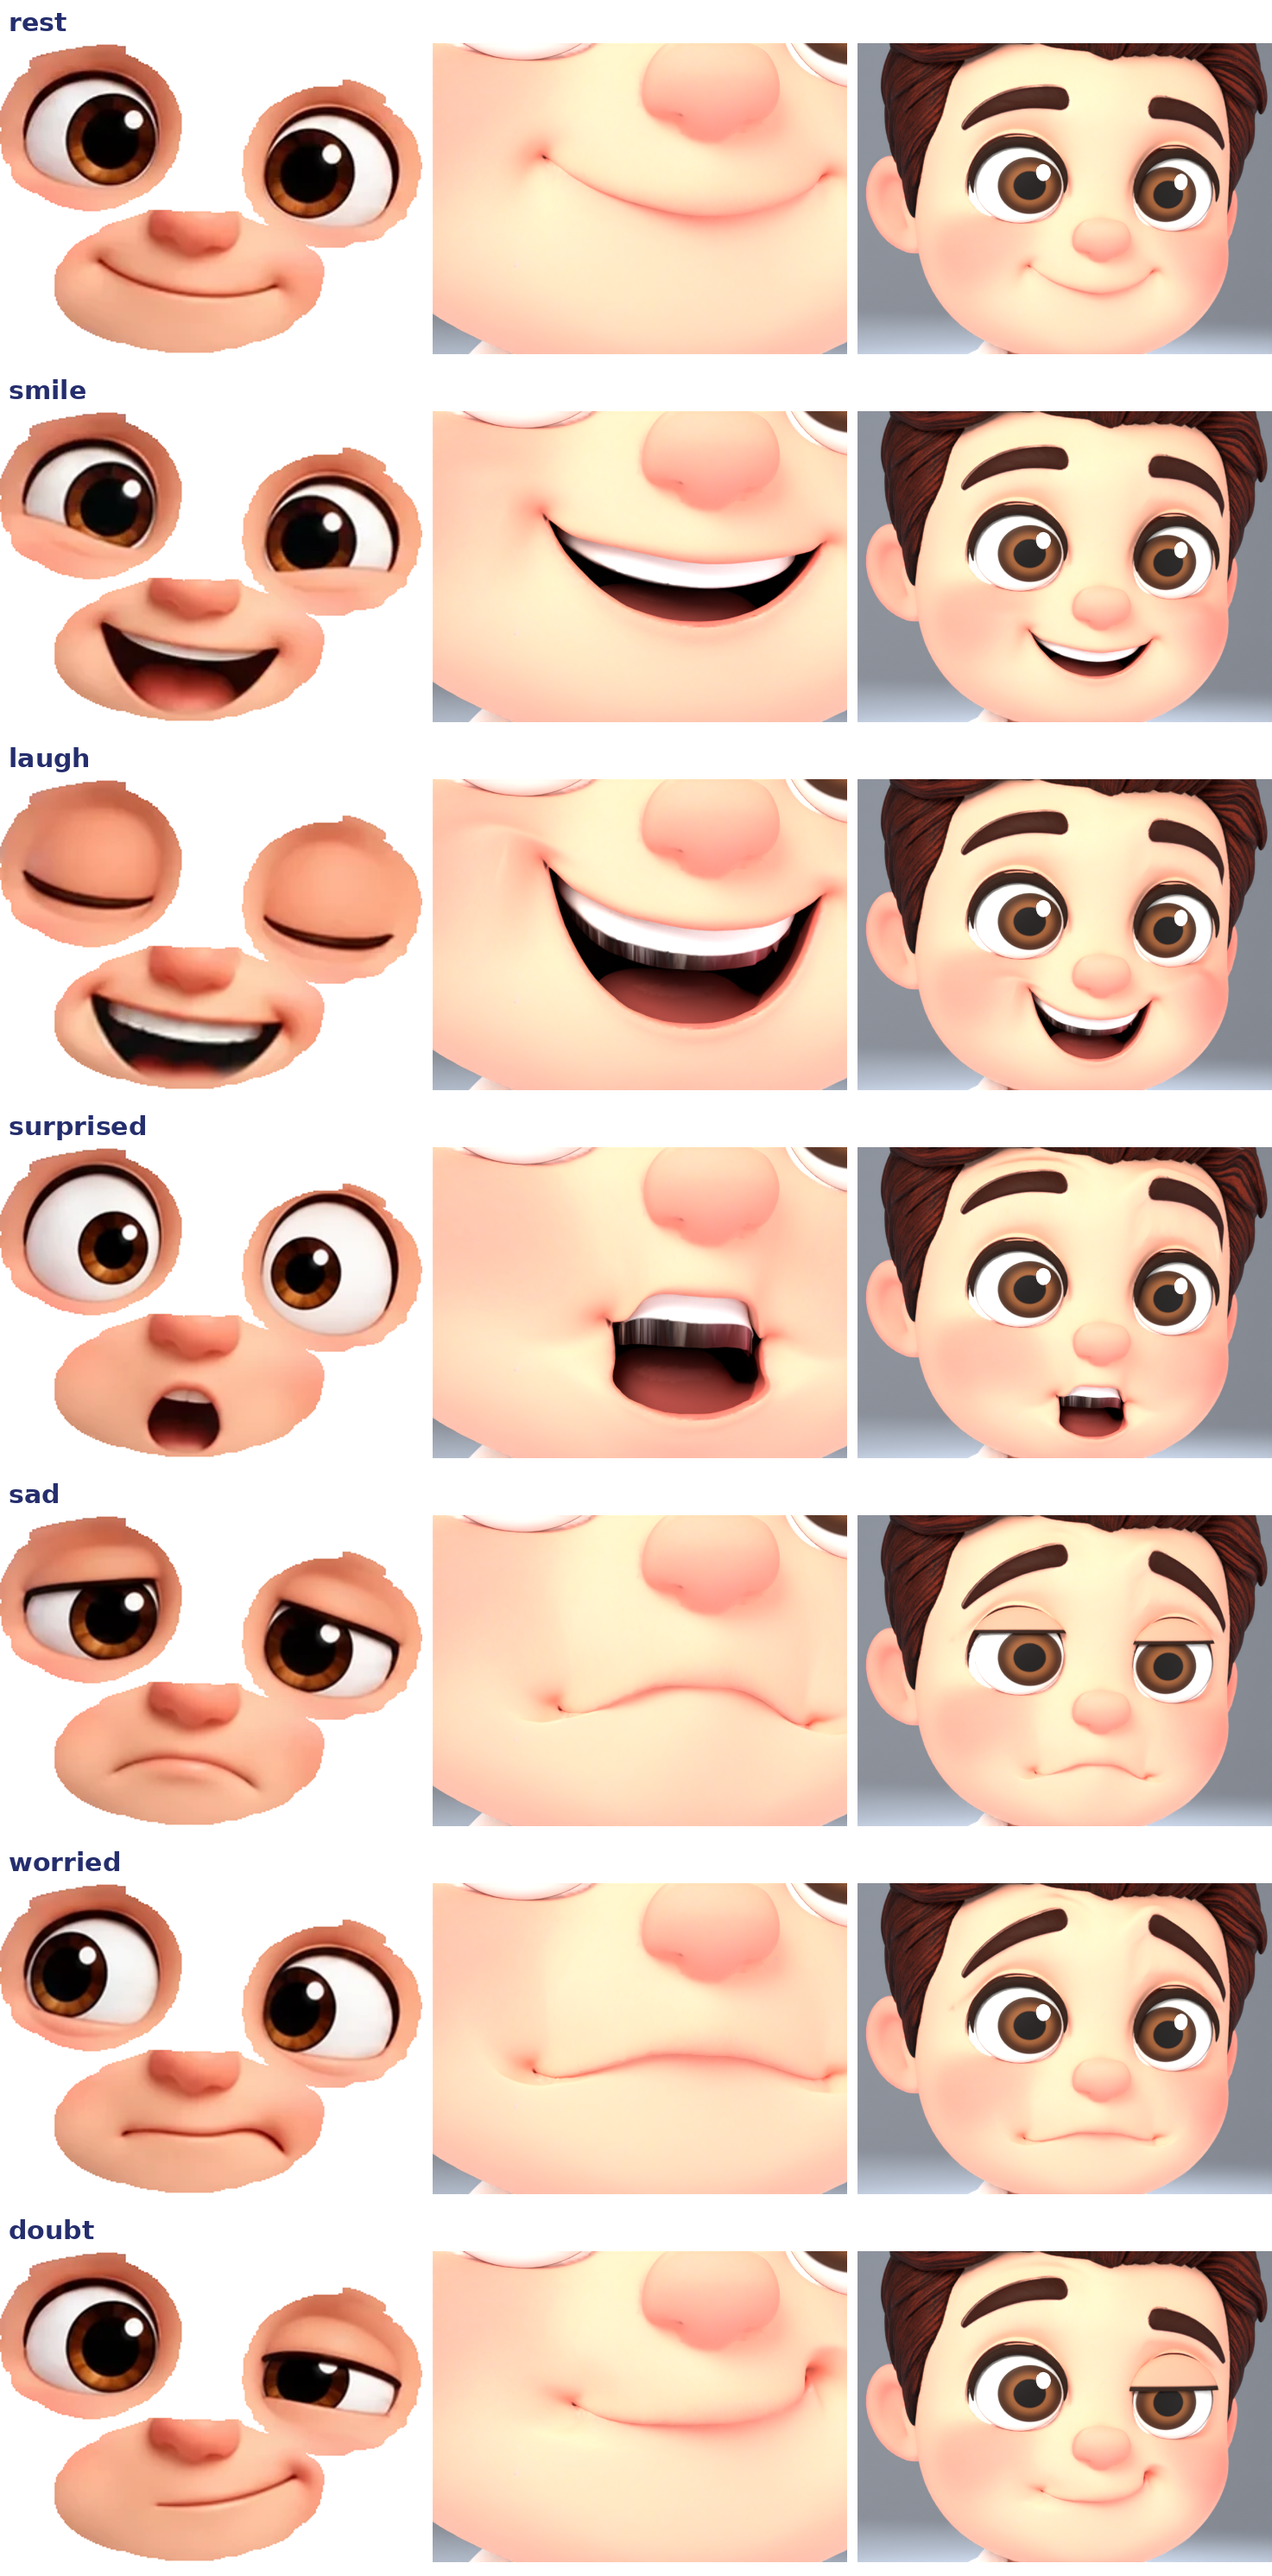
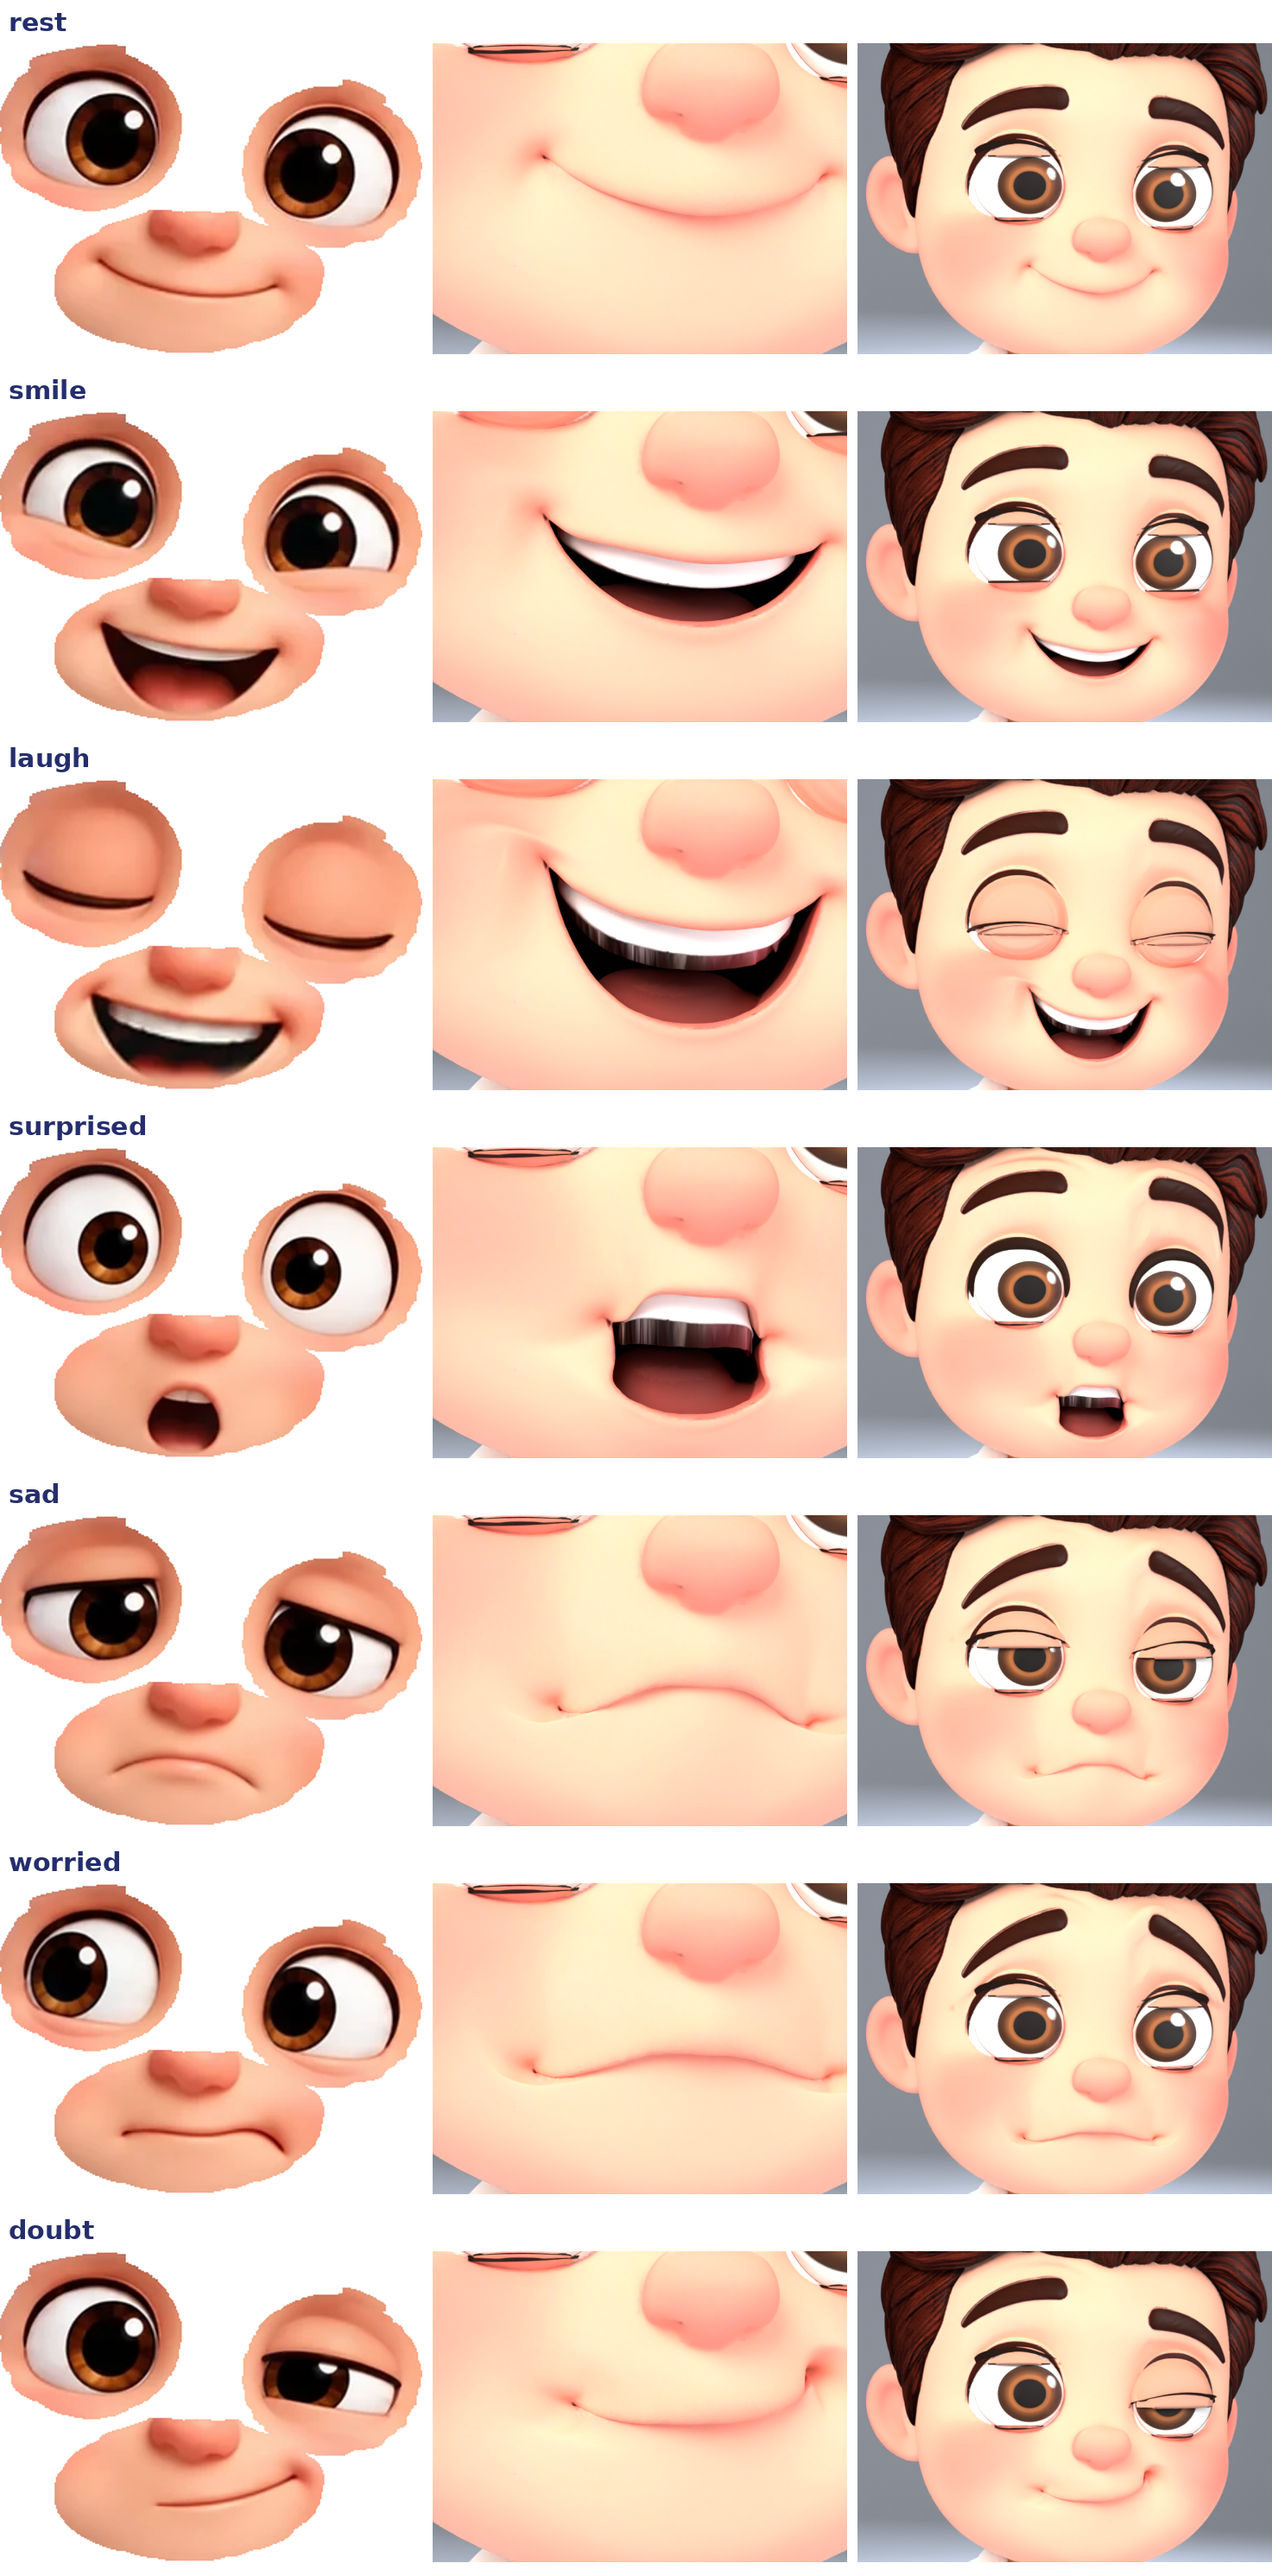
3D Dr. Smiley: eyes step 5, lids wrapped into his skin
Past the eye's outline the lids tuck under his skin, so shut eyes sit flush
instead of reading as goggles; rim and lashes keep their shape; the upper
lid closes over the lower. The laugh shuts his eyes in a gentle arc and a
smile lifts the lower lids. All seven reactions re-rendered with the new
eyes: out/plan-eyes6.png, waiting on Jose's OK. Docs only, no app change, so
no User Guide change.

Claude-Session: https://claude.ai/code/session_011askx983Tm1ZdoDUiZZ1Y5

diff --git a/docs/mockups/smiley-3d/tripo_eyes2.py b/docs/mockups/smiley-3d/tripo_eyes2.py
@@ -205,6 +205,67 @@ def lid_stage_verts(rx, ry, rz, edge, arch, side, rows=48, segs=128, lash=.0058,
     return [tuple(v) for v in vs]
 
 
+_FACE = {}
+
+
+def face_grid(eye, rx, rz, n=90, span=1.7):
+    """His face's depth round one eye, in the eye's own frame (y: into the head),
+    on an n x n grid of x/rx, z/rz from -span to span: ray casts along the eye's
+    forward line onto his face, done once per eye."""
+    if eye.name in _FACE:
+        return _FACE[eye.name]
+    from mathutils import Vector
+    head = bpy.data.objects['Mesh_0']
+    M, Mi, Hi = eye.matrix_world, eye.matrix_world.inverted(), head.matrix_world.inverted()
+    fwd = (M.to_3x3() @ Vector((0, -1, 0))).normalized()
+    d = (Hi.to_3x3() @ -fwd).normalized()
+    us = np.linspace(-span, span, n)
+    g = np.full((n, n), np.nan)
+    for i, v in enumerate(us):
+        for j, u in enumerate(us):
+            w = M @ Vector((u * rx, 0, v * rz))
+            hit, loc, *_ = head.ray_cast(Hi @ (w + fwd * .05), d)
+            if hit:
+                g[i, j] = (Mi @ (head.matrix_world @ loc)).y
+    _FACE[eye.name] = (us, g)
+    return _FACE[eye.name]
+
+
+def wrap(vs, eye, rx, ry, rz, rows=None, segs=128, extra=0.):
+    # extra: more room off the ball; the upper lid gets .8 mm so it closes over the lower
+    # one (at one depth they flickered through each other)
+    """A lid wrapped into his skin (Jose's OK, 2026-10-22: shut eyes looked like
+    goggles, shells standing out over his face): inside the eye's outline it
+    stays on the ball; outside, it tucks just under his skin, the way a real lid
+    goes under the brow and cheek; between, a smooth blend. Never into the ball,
+    and clear of the glass dome over the iris."""
+    from tripo_faceplan import smooth
+    us, g = face_grid(eye, rx, rz)
+    v = np.array(vs)
+    u, w = v[:, 0] / rx, v[:, 2] / rz
+    rho = np.hypot(u, w)
+    n = len(us); step = us[1] - us[0]
+    fi = np.clip((w - us[0]) / step, 0, n - 1.001); fj = np.clip((u - us[0]) / step, 0, n - 1.001)
+    i0, j0 = fi.astype(int), fj.astype(int); ti, tj = fi - i0, fj - j0
+    gg = np.where(np.isnan(g), np.nanmax(g), g)
+    fy = (gg[i0, j0] * (1 - ti) * (1 - tj) + gg[i0 + 1, j0] * ti * (1 - tj) + gg[i0, j0 + 1] * (1 - ti) * tj + gg[i0 + 1, j0 + 1] * ti * tj)
+    s = smooth((rho - .85) / .3)
+    y = v[:, 1] * (1 - s) + (fy + .0006) * s            # outside: .6 mm under his skin
+    inside = rho < 1
+    yb = -ry * np.sqrt(np.clip(1 - rho * rho, 0, 1))   # the ball's front surface (its y is out-negative)
+    margin = .0008 + extra + (BULGE + .0008) * (1 - smooth((rho - .7) / .25))
+    y = np.where(inside, np.minimum(y, yb - margin), y)
+    dy = y - v[:, 1]
+    if rows is not None:
+        # the rim and lashes move as one piece with their column's lid edge: pushed out
+        # point by point, their rolled shape was crushed into jagged dotted lines
+        e0 = rows * segs
+        k = np.arange(e0 + segs, len(v))
+        dy[k] = dy[e0 + (k - e0) % segs]
+    v[:, 1] += dy
+    return [tuple(p) for p in v]
+
+
 def lid_faces(rows=48, segs=128):
     q = lambda r: [(r * segs + j, r * segs + (j + 1) % segs, (r + 1) * segs + (j + 1) % segs, (r + 1) * segs + j) for j in range(segs)]
     shell = [f for r in range(rows) for f in q(r)]
@@ -266,7 +327,7 @@ def build_lower_lid(eye, side):
           for k in range(LOW_STAGES + 1)]
     skin, lash = lid_faces(rows=32)
     me = bpy.data.meshes.new(name)
-    me.from_pydata(lower_stage_verts(rx, ry, rz, *st[0], side), [], skin + lash); me.shade_smooth()
+    me.from_pydata(wrap(lower_stage_verts(rx, ry, rz, *st[0], side), eye, rx, ry, rz, rows=32), [], skin + lash); me.shade_smooth()
     # the cheek's own colour, not the upper lid's darker tone: raised, it must read as his cheek pushing up
     lm = bpy.data.materials.get('LidLow') or bpy.data.materials['Lid'].copy()
     lm.name = 'LidLow'
@@ -283,7 +344,7 @@ def build_lower_lid(eye, side):
     ob.shape_key_add(name='Basis', from_mix=False)
     for k in range(1, LOW_STAGES + 1):
         kb = ob.shape_key_add(name=f'U{k}', from_mix=False)
-        kb.data.foreach_set('co', np.array(lower_stage_verts(rx, ry, rz, *st[k], side)).ravel())
+        kb.data.foreach_set('co', np.array(wrap(lower_stage_verts(rx, ry, rz, *st[k], side), eye, rx, ry, rz, rows=32)).ravel())
         kb.value = 0
     return ob
 
@@ -346,7 +407,7 @@ def rebuild_lid(eye, side):
     # open, the lid is tucked above the eye behind his face and the liner draws the line;
     # its lashes grow in as it comes down (open, they poked out over the eye as tabs)
     grow = lambda k: min(1., k / 2)
-    me.from_pydata(lid_stage_verts(rx, ry, rz, *stages[0], side, grow=grow(0)), [], skin + lash)
+    me.from_pydata(wrap(lid_stage_verts(rx, ry, rz, *stages[0], side, grow=grow(0)), eye, rx, ry, rz, rows=48, extra=.0008), [], skin + lash)
     me.shade_smooth()
     me.materials.append(bpy.data.materials['Lid'])
     lm = bpy.data.materials.get('Lash') or bpy.data.materials.new('Lash')
@@ -365,7 +426,7 @@ def rebuild_lid(eye, side):
     lid.shape_key_add(name='Basis', from_mix=False)
     for k in range(1, E.STAGES + 1):
         kb = lid.shape_key_add(name=f'B{k}', from_mix=False)
-        kb.data.foreach_set('co', np.array(lid_stage_verts(rx, ry, rz, *stages[k], side, grow=grow(k))).ravel())
+        kb.data.foreach_set('co', np.array(wrap(lid_stage_verts(rx, ry, rz, *stages[k], side, grow=grow(k)), eye, rx, ry, rz, rows=48, extra=.0008)).ravel())
         kb.value = 0
     glue_liner(eye, side, rx, rz)
 

diff --git a/docs/mockups/smiley-3d/tripo_eyesboard.py b/docs/mockups/smiley-3d/tripo_eyesboard.py
@@ -48,3 +48,15 @@ board('Eyes, step 4: squint and laugh', ['Your pick B is now his resting lid. Th
      'onto his own face (the way the eyeliner is pressed onto it now), so a shut eye is a soft bulge flowing into his cheek '
      'and brow, as on a real face. Then the two lids can meet in your drawing\u2019s happy arc.', [], '', True),
 ], 'plan-eyes5.png')
+
+
+lg2 = Image.open(O('plan/laugh-lids2.png')).crop((0, 0, 864 - 12, 652))
+sheet = Image.open(O('plan/mouths.png'))
+board('Eyes, step 5: lids wrapped into his skin', ['Shut eyes no longer look like goggles. All seven reactions', 'with the new eyes, beside your drawings.'], [
+    ('1', 'ME', 'The lids now tuck under his skin past the eye\u2019s outline, like a real lid under the brow and cheek, so a shut '
+     'eye sits flush. The laugh shuts his eyes in a gentle upward arc, the lower lid rising to meet the upper. A squint '
+     'works too.', [fit(lg2, 1000, 520)], 'squint, and the laugh\u2019s shut eyes', False),
+    ('2', 'ME', 'All seven with the new eyes: calm resting lids, lower lids lifting in a smile, white above the iris in '
+     'surprise, heavy lids in sad, one half-shut eye in doubt.', [fit(sheet, 1000, 2200)], 'your drawing, his mouth, his whole face', True),
+    ('3', 'NEXT', 'After your OK: the teeth (real upper and lower teeth, gums and tongue), then the expression sheet.', [], '', False),
+], 'plan-eyes6.png')

diff --git a/docs/mockups/smiley-3d/tripo_mouths.py b/docs/mockups/smiley-3d/tripo_mouths.py
@@ -23,11 +23,11 @@ TMP = os.path.join(HERE, 'in', 'faceplan')
 # his left brow, your right, goes a fifth further: DR_BROW_SIDE)
 MOUTHS = {
     'rest':      dict(close=1),
-    'smile':     dict(close=0, cheek=(1, 1), brow=((2, 0), (2.4, 0))),
+    'smile':     dict(close=0, cheek=(1, 1), brow=((2, 0), (2.4, 0)), lower=(.3, .3)),   # a smile lifts the lower lids a little
     # pushed toward the size of his drawings (Jose: "push them further"), the
     # muscles past their natural strength the way a cartoon exaggerates
     'laugh':     dict(close=0, mouth={'JawOpen': 1.2, 'CornerUp.L': 1, 'CornerUp.R': 1}, cheek=(1.6, 1.6),
-                      brow=((2.8, 0), (3.4, 0))),   # his drawn laugh shuts the eyes in happy arcs: needs a lower lid (not built)
+                      brow=((2.8, 0), (3.4, 0)), lid=(.64, .64), lower=(1, 1)),   # eyes shut in a gentle arc, the lower lid up to meet the upper
     # after the muscles (tripo_muscles.py, Jose 2026-10-22: "how a normal person makes
     # mouth reactions"): surprise is the jaw dropping with the lips let go (AU 26), not a
     # pucker; sadness pulls the corners down (15) and the chin up into a pout (17);

diff --git a/docs/handoff.md b/docs/handoff.md
@@ -138,6 +138,12 @@ worried (flat, not a frown).
    lines cross. Proposed (`out/plan-eyes5.png`, waiting on Jose): wrap the
    lids into his skin, blending from the ball near the edge to his face
    surface further out (ray casts, like `glue_liner`).
+   Jose OK'd; done: `face_grid` + `wrap` in `tripo_eyes2.py` (inside the
+   eye's outline on the ball, outside .6 mm under his skin, never into the
+   ball or dome; rim and lashes move with their column's edge; the upper lid
+   .8 mm further out so it closes over the lower). Laugh: `lid .64, lower 1`
+   (both edges arch up and meet); smile `lower .3`. Shown
+   `out/plan-eyes6.png`, waiting. Next: the teeth (plan in plan-alive).
 2. Then the expression sheet (brows + eyes + mouth + cheeks), six poses,
    a 360-degree turn: stop for his OK.
 3. Then the animation (R2), as a visual plan first.
